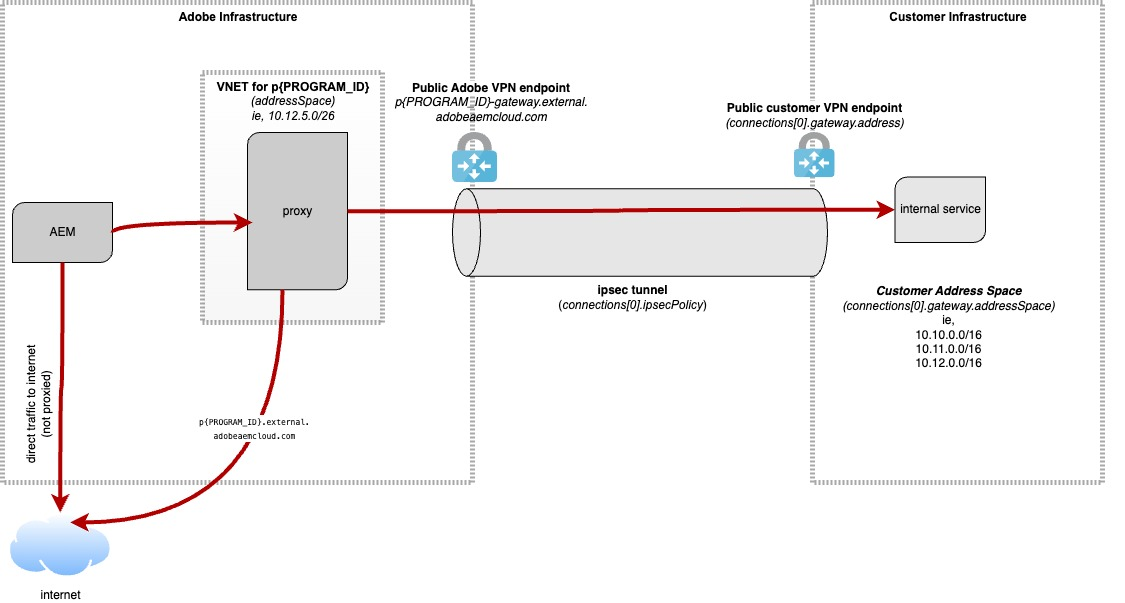
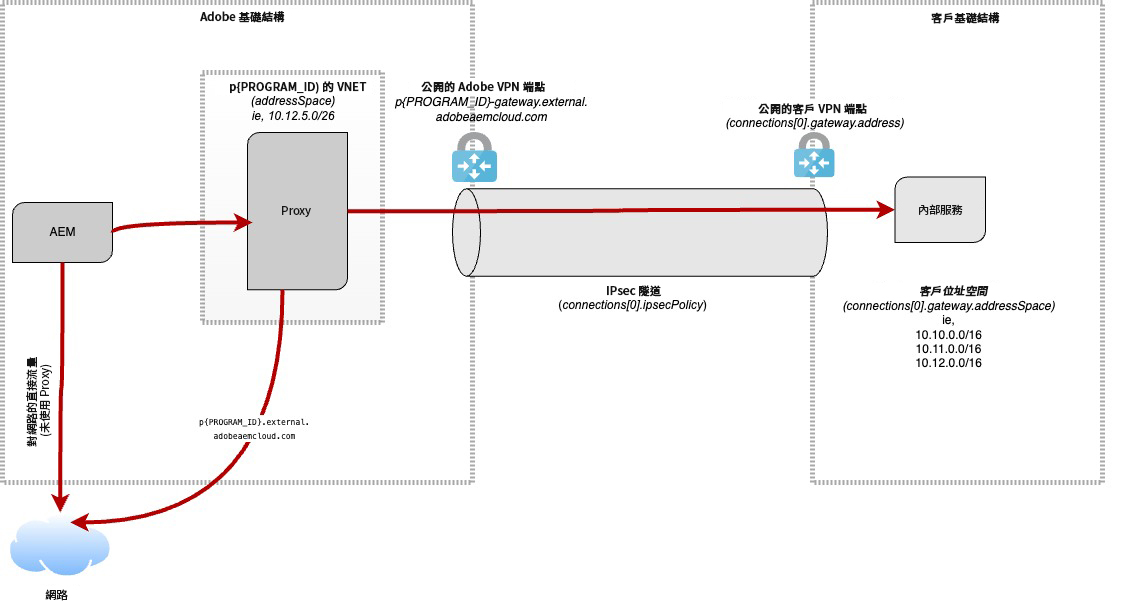
Updated by task 'AUTO_HANDOFF_PRIORITY_1731329234820'  Changes for core/source commit https://git.corp.adobe.com/AdobeDocs/experience-manager-cloud-service.en/commit/bba3b4a6c0786865051f4499f4f1725b1628ee58

diff --git a/help/implementing/cloud-manager/release-notes/current.md b/help/implementing/cloud-manager/release-notes/current.md
@@ -1,19 +1,19 @@
 ---
 title: Adobe Experience Manager as a Cloud Service 中 Cloud Manager 2024.11.0 的發行說明
-description: 瞭解AEM as a Cloud Service中的Cloud Manager 2024.11.0版。
+description: 了解 AEM as a Cloud Service 中 Cloud Manager 2024.11.0 的發行資訊。
 feature: Release Information
 role: Admin
 exl-id: 24d9fc6f-462d-417b-a728-c18157b23bbe
 source-git-commit: 87293526ca9c10a142bc1d1d3a35562b171da385
-workflow-type: tm+mt
+workflow-type: ht
 source-wordcount: '784'
-ht-degree: 30%
+ht-degree: 100%
 
 ---
 
 # Adobe Experience Manager as a Cloud Service 中 Cloud Manager 2024.11.0 的發行說明 {#release-notes}
 
-瞭解關於AEM (Adobe Experience Manager)as a Cloud Service中的Cloud Manager 2024.11.0版。
+了解 AEM (Adobe Experience Manager) as a Cloud Service 中 Cloud Manager 2024.11.0 的發行資訊。
 
 >[!NOTE]
 >
@@ -21,31 +21,31 @@ ht-degree: 30%
 
 ## 發行日期 {#release-date}
 
-AEM as a Cloud Service中的Cloud Manager 2024.11.0發行日期是2024年11月7日。
+AEM as a Cloud Service 中的 Cloud Manager 2024.11.0 發行日期是 2024 年 11 月 7 日。
 
-下一個預計發行日期為2024年12月5日。
+下一次預計發行日期為 2024 年 12 月 5 日。
 
 ## 新增功能 {#what-is-new}
 
-* 透過AEM Cloud Service體驗Edge Delivery Services創新的最新進展 — 現在可讓您在沙箱程式中探索。 [深入瞭解](/help/implementing/cloud-manager/getting-access-to-aem-in-cloud/introduction-sandbox-programs.md#auto-creation) <!-- (CMGR-62319) -->
-* AEM Cloud Manager中的「網域設定」頁面現在包含搜尋功能，可讓您依名稱快速找到網域。 您可以在搜尋欄位中輸入關鍵字，以篩選及顯示相符的網域，讓您更輕鬆地有效管理多個網域。 此外，頁面還提供狀態篩選器，例如&#x200B;**已驗證**&#x200B;和&#x200B;**未驗證**，以進一步調整搜尋結果。<!-- (CMGR-62615) -->
+* 透過 AEM Cloud Service 體驗最新的 Edge Delivery Services 創新 - 現在可以在您的沙箱計畫中進行探索。[了解更多](/help/implementing/cloud-manager/getting-access-to-aem-in-cloud/introduction-sandbox-programs.md#auto-creation)<!-- (CMGR-62319) -->
+* AEM Cloud Manager 中的「網域設定」頁面現在包含搜尋功能，可讓您依照名稱迅速找到網域。您可以在搜尋欄位中輸入關鍵字以篩選並顯示相符的網域，從而更輕鬆地以有效率的方式管理多個網域。此外，該頁面也提供狀態篩選器，例如「**已驗證**」和「**未驗證**」，以進一步縮小搜尋結果的範圍。<!-- (CMGR-62615) -->
 
-![在網域設定中搜尋欄位](/help/implementing/cloud-manager/assets/domain-settings-search.png)
+![「網域設定」中的「搜尋」欄位](/help/implementing/cloud-manager/assets/domain-settings-search.png)
 
 ## 早期採用方案 {#early-adoption}
 
 成為 Cloud Manager 早期採用方案的一部分，並有機會測試即將推出的功能。
 
-### AEM首頁 {#aem-home}
+### AEM 首頁 {#aem-home}
 
-AEM首頁推出管理Adobe Experience Manager內容、資產和網站的集中式起點。 AEM首頁旨在提供個人化體驗，可讓您根據自己的角色和目標，順暢地瀏覽AEM生態系統。 它可作為指南，提供重要深入分析和建議動作，以幫助您有效達成目標。 AEM首頁擁有清晰、以人物為導向的版面配置，可確保快速存取基本工具，支援所有AEM功能中精簡而有效的體驗。
+AEM 首頁推出一個集中化的起點，用於在 Adobe Experience Manager 中管理內容、資產和網站。AEM 首頁旨在提供個人化體驗，可讓您根據自己的角色和目標順暢地導覽 AEM 生態系統。它以指南的方式提供關鍵的深入解析和建議的動作，協助您有效率地達成目標。AEM 首頁具備以角色為導向的清晰版面，確保快速存取基本工具，有助於在所有 AEM 功能中提供簡化且有效的體驗。
 
-AEM Home可供早期採用者使用，提供專注於改善工作流程、安排目標優先順序及實現結果的最佳化體驗。 選擇加入可讓您提供意見回饋，協助塑造未來，並提升整個AEM社群的價值，從而影響AEM首頁的開發。
+AEM 首頁可供早期採用者使用，提供專注於提升工作流程、確定目標優先順序和交付結果的最佳化體驗。如果選擇加入，您可以提供回饋意見來影響 AEM 首頁的開發，協助塑造其未來並提升其對整個 AEM 社群的價值。
 
-如果您有興趣測試這項新功能並分享您的意見回饋，請從與Adobe ID相關聯的電子郵件地址傳送電子郵件至[Grp-AemHome@adobe.com](mailto:Grp-AemHome@adobe.com)。 請務必加入下列資訊：
+如果您有興趣測試這個新功能並分享回饋意見，請使用與您的 Adobe ID 相關聯的電子郵件地址寄送電子郵件至 [Grp-AemHome@adobe.com](mailto:Grp-AemHome@adobe.com)。請務必包含以下資訊：
 
-* 最適合您設定檔的角色：內容作者、開發人員、企業所有者、管理員或其他（提供說明）。
-* 您的主要AEM存取介面： AEM Sites、AEM Assets、AEM Forms、Cloud Manager或其他（提供說明）。
+* 最適合您個人資料的角色：內容作者、開發人員、業務負責人、管理員或其他 (請提供說明)。
+* 您的主要 AEM 存取表面：AEM Sites、AEM Assets、AEM Forms、Cloud Manager 或其他 (請提供說明)。
 
 ### 自備 Git - 現在支援 GitLab 和 Bitbucket {#gitlab-bitbucket}
 
@@ -61,16 +61,16 @@ AEM Home可供早期採用者使用，提供專注於改善工作流程、安排
 >
 >目前，立即可用的提取請求代碼品質檢查僅限於 GitHub 託管的存放庫，但我們正在進行一項更新以將此功能擴展到其他 Git 供應商。
 
-如果您有興趣測試此新功能並分享您的意見回饋，請使用與您的 Adobe ID 關聯的電子郵件地址向 [Grp-CloudManager_BYOG@adobe.com](mailto:Grp-CloudManager_BYOG@adobe.com) 傳送電子郵件。請務必加入您要使用的Git平台，以及您是要使用私人/公有或企業存放庫結構。—>
+如果您有興趣測試此新功能並分享您的意見回饋，請使用與您的 Adobe ID 關聯的電子郵件地址向 [Grp-CloudManager_BYOG@adobe.com](mailto:Grp-CloudManager_BYOG@adobe.com) 傳送電子郵件。請務必包含您要使用的 Git 平台，以及您是使用私人/公開或企業存放庫結構。-->
 
 
 ## 錯誤修正
 
-* 最近的一項更新解決了SonarQube中某些情況下偵測不到硬式編碼密碼的問題。 此修正現在包含展開的模式檢查，並符合SonarQube中的預設偵測標準。<!-- CMGR-62682 -->
-* 嘗試在Cloud Manager中更新SSL憑證時，在&#x200B;**[!UICONTROL 檢視和更新SSL憑證]**&#x200B;對話方塊中按一下&#x200B;**[!UICONTROL 更新]**&#x200B;後，會出現未知錯誤。<!-- CMGR-62848 -->
-* 在Cloud Manager中，SSL憑證更新會失敗，並出現錯誤「新憑證不符合現有網域」，即使網域相同但字母大小寫（大寫或小寫）不同。 此更新現在會將網域識別為不區分大小寫，並符合RFC標準。<!-- CMGR-62844 -->
-* 在Cloud Manager中，IP允許清單繫結停留在執行狀態，因為缺少網域設定的外部索引鍵連結。 此修正現在可確保IP允許清單繫結正確連結至關聯的網域設定。<!-- CMGR-62838 -->
-* Cloud Manager會驗證SSL憑證的OCSP （線上憑證狀態通訊協定）狀態。 Adobe建議您先使用`openssl verify -untrusted intermediate.pem certificate.pem`之類的工具在本機驗證憑證的完整性，然後再透過Cloud Manager安裝。 如需詳細資訊，請參閱[SSL憑證需求檔案](https://experienceleague.adobe.com/en/docs/experience-manager-cloud-service/content/implementing/using-cloud-manager/manage-ssl-certificates/introduction-to-ssl-certificates#requirements)。<!-- CMGR-62341  -->
+* 最近的更新解決了 SonarQube 在特定情況下未偵測到硬式編碼密碼的問題。該修正現在包括擴充的模式檢查，並與 SonarQube 的預設偵測標準保持一致。<!-- CMGR-62682 -->
+* 嘗試在 Cloud Manager 中更新 SSL 憑證時，按一下「**[!UICONTROL 更新]**」(在「**[!UICONTROL 檢視和更新 SSL 憑證]**」對話框中) 之後會出現未知的錯誤。<!-- CMGR-62848 -->
+* 在 Cloud Manager 中，即使網域相同但字母大小寫不同，SSL 憑證更新也會失敗，並顯示錯誤「新憑證不符合現有網域」。該更新現在會將網域識別為不區分大小寫，與 RFC 標準保持一致。<!-- CMGR-62844 -->
+* 在 Cloud Manager 中，IP 允許清單綁定停滯在執行狀態，因為缺少連結至網域設定的外部索引鍵。此修正現在可確保 IP 允許清單綁定正確地連結到相關聯的網域設定。<!-- CMGR-62838 -->
+* Cloud Manager 會驗證 SSL 憑證的 OCSP (線上憑證狀態通訊協定) 狀態。Adobe 建議在透過 Cloud Manager 安裝之前，也要在本機上使用如 `openssl verify -untrusted intermediate.pem certificate.pem` 等工具來驗證憑證的完整性。有關更多詳細資訊，請參閱 [SSL 憑證要求文件](https://experienceleague.adobe.com/zh-hant/docs/experience-manager-cloud-service/content/implementing/using-cloud-manager/manage-ssl-certificates/introduction-to-ssl-certificates#requirements)。<!-- CMGR-62341  -->
 
 
 
